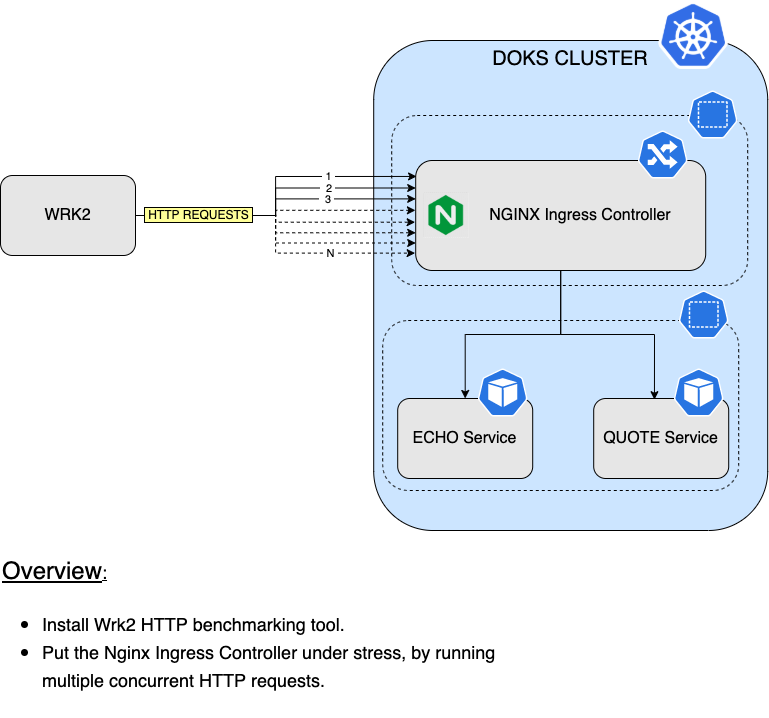
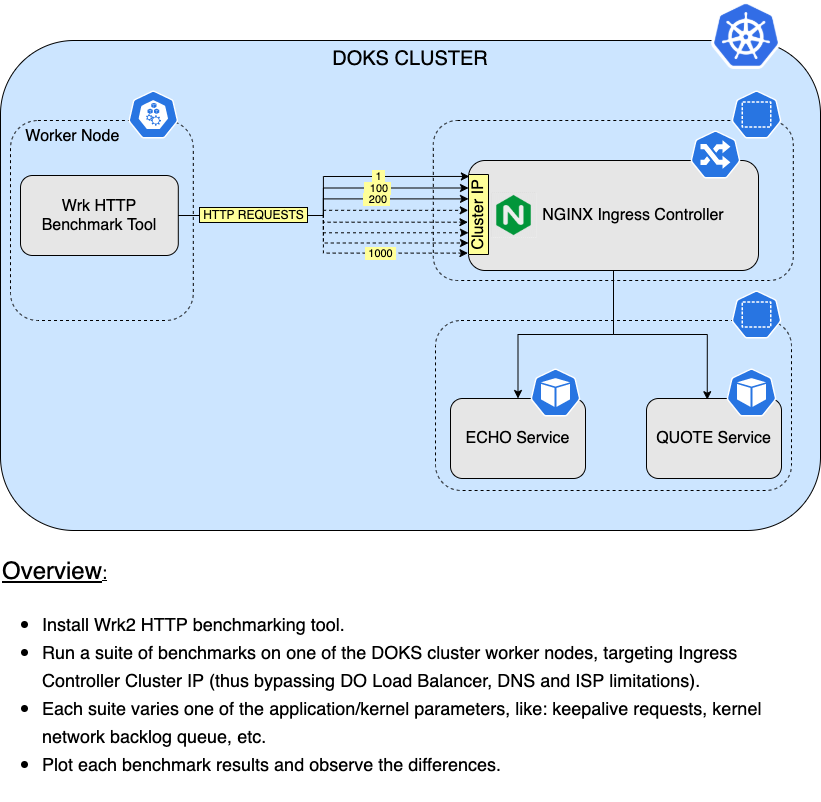
Main diagram and TOC update for the Nginx performance guide, minor text corrections

diff --git a/03-setup-ingress-controller/guides/nginx_performance_considerations.md b/03-setup-ingress-controller/guides/nginx_performance_considerations.md
@@ -6,12 +6,16 @@ This guide is meant to give you a brief overview on the important steps involved
 
 When we talk about performance in general, there are two key points that need to be addressed:
 
-- Operating System level tuning.
-- Application level tuning.
+- `Operating System` level tuning.
+- `Application` level tuning.
 
 Operating system level tuning deals with configuring best values for parameters that affect the kernel, like: open file descriptors limit, network stack buffers, etc.
 
 On the other hand, application level tuning (`Nginx`) deals with setting proper values for parameters that affect application performance directly, like: worker processes, caching, compression, etc.
+
+### Nginx Load Testing Setup
+
+![Nginx Load Testing Setup](../assets/images/nginx_load_testing_overview.png)
 
 ## Table of contents
 
@@ -29,6 +33,10 @@ On the other hand, application level tuning (`Nginx`) deals with setting proper 
 - [Using Wrk2 for HTTP Benchmarking](#using-wrk2-for-http-benchmarking)
   - [Web Performance Optimization Concepts](#web-performance-optimization-concepts)
   - [Basic Usage](#basic-usage)
+  - [HTTP Benchmark Suite 1: Default Nginx Configuration](#http-benchmark-suite-1-default-nginx-configuration)
+  - [HTTP Benchmark Suite 2: Nginx Keep Alive Connection Parameters Tuning](#http-benchmark-suite-2-nginx-keep-alive-connection-parameters-tuning)
+  - [HTTP Benchmark Suite 3: Backlog Queue Tuning](#http-benchmark-suite-3-backlog-queue-tuning)
+- [Conclusion](#conclusion)
 
 ## Prerequisites
 
@@ -732,9 +740,9 @@ Next, the `wrk2` performance tool will be introduced along with some `HTTP bench
 
 Before proceeding it's important to understand some basic concepts related to `web performance optimization` in general:
 
-- `Latency` is a measure of how fast a server responds to requests from the client. Typically measured in milliseconds (ms), latency is often referred to as response time. Lower numbers indicate faster responses. Latency is measured on the client side, from the time the request is sent until the response is received. Network overhead is included in this number.
-- `Throughput` is how many requests the server can handle during a specific time interval, usually reported as requests per second.
-- `Percentiles` are a way of grouping results by their percentage of the whole sample set. If your 50th percentile response time is 100ms, that means 50% of the requests were returned in 100ms or less. The graph below shows why it’s useful to look at your measurements by percentile:
+- `Latency` is a measure of how `fast` a `server` responds to `requests` from the `client`. Typically measured in `milliseconds` (ms), latency is often referred to as response time. `Lower` numbers indicate `faster` responses. Latency is measured on the client side, from the time the request is sent until the response is received. Network overhead is included in this number.
+- `Throughput` is how many `requests` the `server` can `handle` during a specific `time interval`, usually reported as `requests per second`.
+- `Percentiles` are a way of `grouping results` by their `percentage` of the whole sample set. If your `50th` percentile response time is `100ms`, that means `50%` of the `requests` were returned in `100ms` or less.
 
 ### Basic Usage
 
@@ -798,7 +806,7 @@ After finishing the above steps, you should get a nice `histogram` that can be `
 
 Next, a series of `HTTP benchmarks` were run directly on one of the `DOKS` worker nodes, using the `ClusterIP` endpoint of the `Nginx Ingress Controller`. The main idea is that you will want to eliminate components that introduce latency, such as the the Internet facing `Load Balancer` and possible ones coming from your `ISP`. The `quote` service endpoint was used as a reference.
 
-Each benchmark is linearly increasing number of `concurrent connections` (aka number of `concurrent users`), and `RPS` (or `Requests Per Second`). The range chosen is from `100` to `1000`, using a step size of `100`. Before running each set of tests, one parameter was changed to
+Each benchmark is linearly increasing number of `concurrent connections` (aka number of `concurrent users`), and `RPS` (or `Requests Per Second`). The range chosen is from `100` to `1000`, using a step size of `100`.
 
 ### HTTP Benchmark Suite 1: Default Nginx Configuration
 
@@ -808,11 +816,11 @@ Scenario setup:
 - Number of requests per second: `100 - 1000` (step size: `100`).
 - Original Nginx configuration (nothing was altered).
 
-Results are as follows:
+Results are as follows (each line from the plot represents number of concurrent requests: `c100` means `100` concurrent requests, `c200` means `200` concurrent requests, etc):
 
 ![HTTP Benchmark Original Config](../assets/images/http_benchmark_original_config.png)
 
-As you can see in the above plot, the `average` value for `latency` is around `200-300ms`, and it's fairly constant. Then, degradations starts at around `900 - 1000` concurrent connections and `RPS`, with spikes around `1000ms`, which is a little bit too much.
+As you can see in the above plot, the `average` value for `latency` is around `200-300ms`, and it's fairly constant. Then, degradations starts at around `900 - 1000` concurrent connections, where the `99th percentile` spikes around `1000ms`.
 
 ### HTTP Benchmark Suite 2: Nginx Keep Alive Connection Parameters Tuning
 
@@ -821,25 +829,25 @@ Scenario setup:
 - Number of concurrent connections: `100 - 1000` (step size: `100`).
 - Number of requests per second: `100 - 1000` (step size: `100`).
 - Nginx keep alive parameters changed:
-  - `keep-alive-requests` set to `10000`
-  - `upstream-keepalive-requests` set to `1000`
+  - `keep-alive-requests` set to `10000`.
+  - `upstream-keepalive-requests` set to `1000`.
 
-Results are as follows:
+Results are as follows (each line from the plot represents number of concurrent requests: `c100` means `100` concurrent requests, `c200` means `200` concurrent requests, etc):
 
 ![HTTP Benchmark Keepalive Config](../assets/images/http_benchmark_keepalive_config.png)
 
-The results are mostly the same as in the original Nginx configuration, so changing keep alive parameters doesn't seem to improve things.
+The results are mostly the same as with the untouched Nginx configuration, so changing keep alive parameters doesn't seem to improve things too much.
 
-### HTTP Benchmark Suite 3: Kernel Network Buffers Tuning (net.core.somaxconn)
+### HTTP Benchmark Suite 3: Backlog Queue Tuning
 
 Scenario setup:
 
 - Number of concurrent connections: `100 - 1000` (step size: `100`).
 - Number of requests per second: `100 - 1000` (step size: `100`).
 - Kernel parameters changed:
-  - `net.core.somaxconn` modified from `128` to `32768`
+  - `net.core.somaxconn` modified from `128` to `32768`.
 
-Results are as follows:
+Results are as follows (each line from the plot represents number of concurrent requests: `c100` means `100` concurrent requests, `c200` means `200` concurrent requests, etc):
 
 ![HTTP Benchmark Kernel net.core.somaxconn](../assets/images/http_benchmark_somaxconn_config.png)
 
@@ -847,7 +855,7 @@ Now, that's a big improvement when tuning network buffers setting for the Linux 
 
 ## Conclusion
 
-This guide is to give you a starting point when it comes to web performance tuning. It doesn't cover all the aspects when it comes to load testing and such. And a simple web service was used (the `quote`, example), which is just a simple one.
+This guide is to give you a starting point when it comes to web performance tuning. It doesn't cover all the aspects when it comes to load testing and such. And a simple web service was used ([datawire-quote](https://github.com/datawire/quote)), which is just a quick example to get you started.
 
 Further references to read:
 
